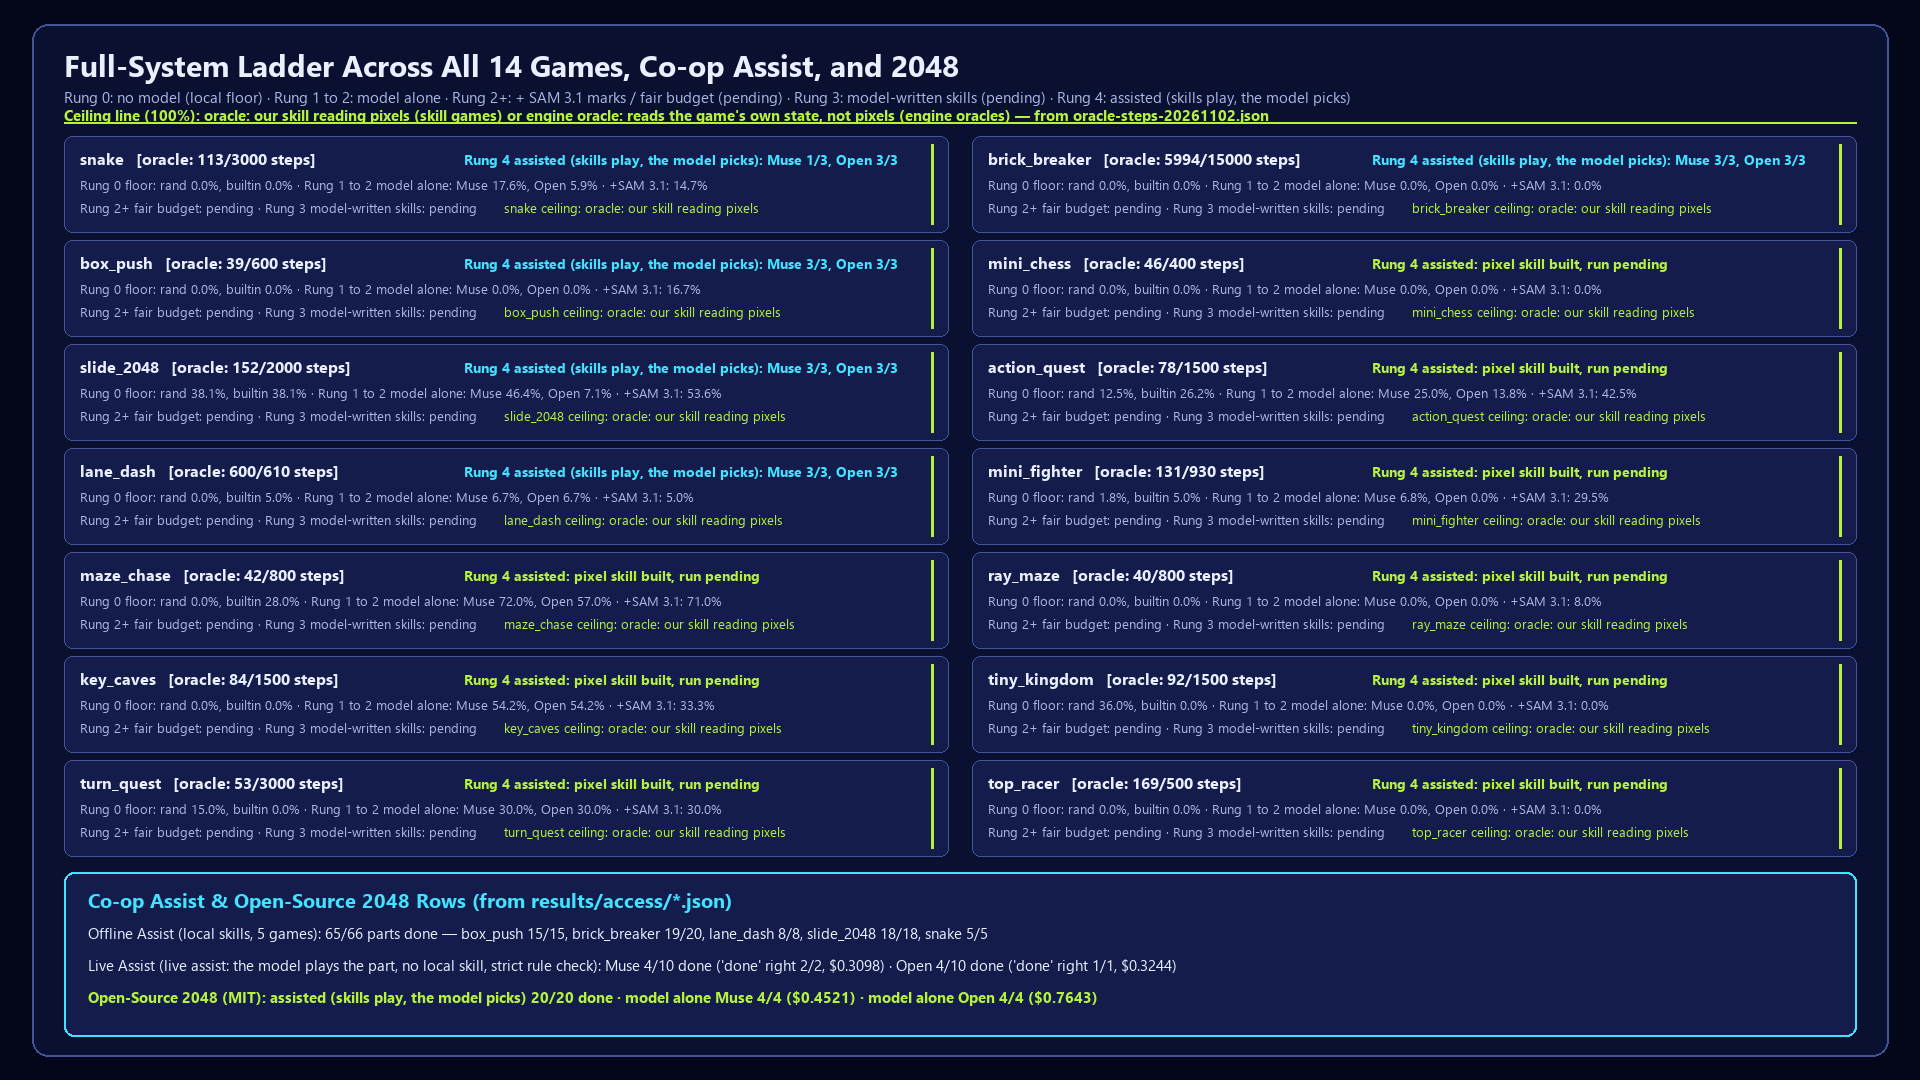
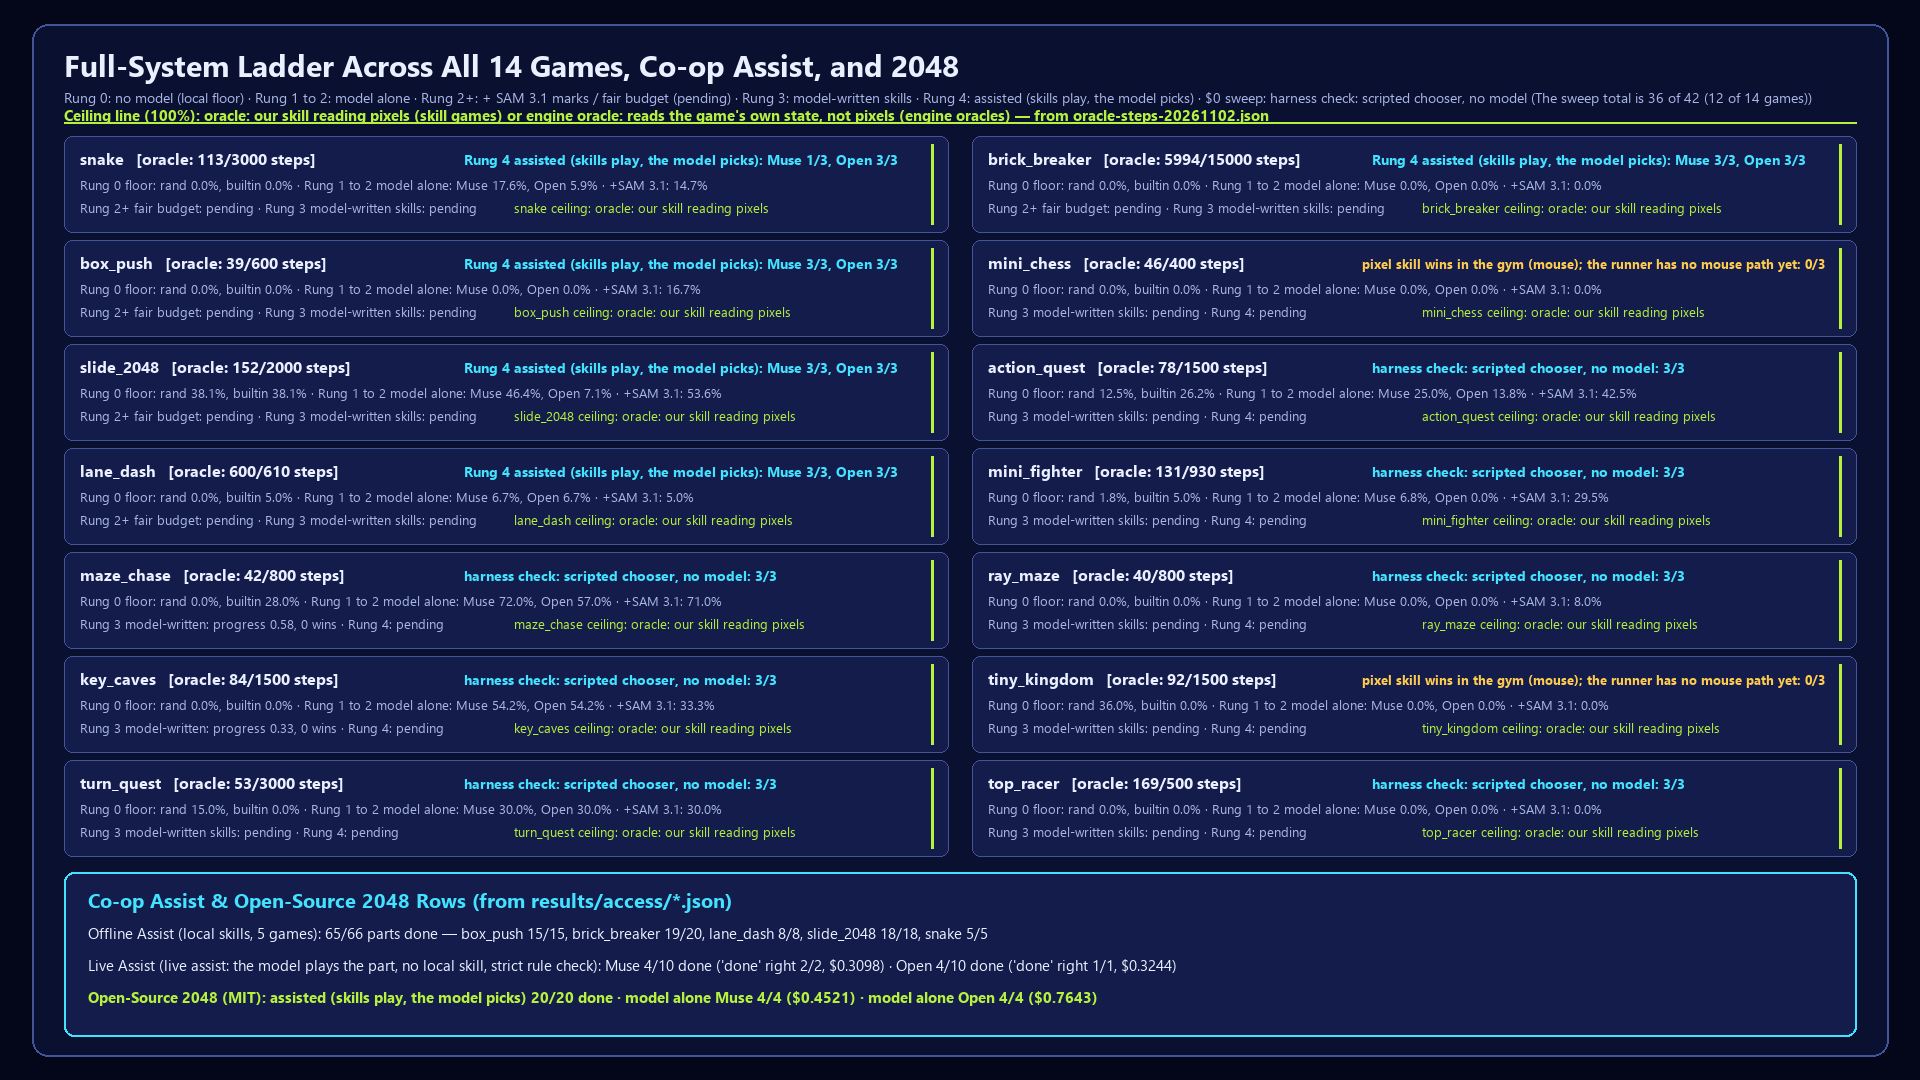
Fix chart labels for mouse games, model-written skills, sweep total, and learning curve subtitle

diff --git a/tools/make_charts.py b/tools/make_charts.py
@@ -644,8 +644,8 @@ def _build_per_game_ladder(results_dir: Path, arena_lookup: dict[str, dict[str, 
     c.text(
         64,
         98,
-        f"Rung 0: {LOCAL_FLOOR_NO_MODEL_LABEL} · Rung 1 to 2: {MODEL_ALONE_LABEL} · Rung 2+: + SAM 3.1 marks / fair budget (pending) · Rung 3: model-written skills (pending) · Rung 4: {ASSISTED_LABEL}",
-        size=15,
+        f"Rung 0: {LOCAL_FLOOR_NO_MODEL_LABEL} · Rung 1 to 2: {MODEL_ALONE_LABEL} · Rung 2+: + SAM 3.1 marks / fair budget (pending) · Rung 3: model-written skills · Rung 4: {ASSISTED_LABEL} · $0 sweep: {SCRIPTED_NO_MODEL_LABEL} (The sweep total is 36 of 42 (12 of 14 games))",
+        size=14,
         fill=INK_2,
     )
     c.line(64, 122, W - 64, 122, LIME, width=2)
@@ -662,6 +662,26 @@ def _build_per_game_ladder(results_dir: Path, arena_lookup: dict[str, dict[str, 
     row_h = 104
     start_y = 136
     new_f4_skills = {"maze_chase", "key_caves", "action_quest", "ray_maze"}
+
+    skillsmith_held_out: dict[str, dict[str, Any]] = {}
+    skillsmith_dir = results_dir / "skillsmith"
+    if skillsmith_dir.is_dir():
+        for sp in sorted(skillsmith_dir.glob("skillsmith-*.json")):
+            if not sp.name.startswith("sandbox-proof"):
+                try:
+                    sdata = json.loads(sp.read_text(encoding="utf-8"))
+                    for gk, ginfo in sdata.get("games", {}).items():
+                        if isinstance(ginfo, dict) and "held_out" in ginfo:
+                            ho = ginfo["held_out"]
+                            if ho.get("played"):
+                                prog = float(ho.get("progress_iqm") or 0.0)
+                                wins = int(ho.get("wins") or 0)
+                                prev = skillsmith_held_out.get(gk)
+                                if prev is None or prog > prev["prog"]:
+                                    prog_str = "0.58" if abs(prog - 0.58) < 1e-4 else ("0.33" if abs(prog - 0.3333) < 1e-3 else f"{prog:.2f}")
+                                    skillsmith_held_out[gk] = {"prog": prog, "prog_str": prog_str, "wins": wins}
+                except Exception:
+                    pass
 
     for idx, g in enumerate(ALL_FOURTEEN_GAMES):
         col = idx // 7
@@ -682,19 +702,32 @@ def _build_per_game_ladder(results_dir: Path, arena_lookup: dict[str, dict[str, 
             w_o = f"{d_oskl[g]['wins']}/{d_oskl[g]['episodes']}"
             r4_text = f"Rung 4 {ASSISTED_LABEL}: Muse {w_m}, Open {w_o}"
             r4_color = CYAN
+            text_x = x0 + 400
+            text_size = 14
+        elif g in ("mini_chess", "tiny_kingdom"):
+            r4_text = "pixel skill wins in the gym (mouse); the runner has no mouse path yet: 0/3"
+            r4_color = AMBER
+            text_x = x0 + 390
+            text_size = 13
         elif "scripted-20261102.json" in arena_lookup and g in arena_lookup["scripted-20261102.json"]["by_game"]:
             row = arena_lookup["scripted-20261102.json"]["by_game"][g]
-            r4_text = f"Rung 4 {SCRIPTED_NO_MODEL_LABEL}: {row['wins']}/{row['episodes']}"
+            r4_text = f"{SCRIPTED_NO_MODEL_LABEL}: {row['wins']}/{row['episodes']}"
             r4_color = CYAN if row["wins"] > 0 else INK_2
+            text_x = x0 + 400
+            text_size = 14
         elif orac.get("skill"):
-            r4_text = "Rung 4 assisted: pixel skill built, run pending"
+            r4_text = "pixel skill built, run pending"
             r4_color = LIME
+            text_x = x0 + 400
+            text_size = 14
         else:
-            r4_text = "Rung 4 assisted: pending"
+            r4_text = "pending"
             r4_color = INK_2
+            text_x = x0 + 400
+            text_size = 14
 
         c.text(x0 + 16, y0 + 24, f"{g}   [oracle: {orac['oracle_steps']}/{orac['max_ticks']} steps]", size=16, fill=INK, bold=True)
-        c.text(x0 + 400, y0 + 24, r4_text, size=14, fill=r4_color, bold=True)
+        c.text(text_x, y0 + 24, r4_text, size=text_size, fill=r4_color, bold=True)
         c.text(
             x0 + 16,
             y0 + 49,
@@ -702,15 +735,24 @@ def _build_per_game_ladder(results_dir: Path, arena_lookup: dict[str, dict[str, 
             size=13,
             fill=INK_2,
         )
+
+        if g in d_mskl:
+            line3_left = "Rung 2+ fair budget: pending · Rung 3 model-written skills: pending"
+        elif g in skillsmith_held_out:
+            ho = skillsmith_held_out[g]
+            line3_left = f"Rung 3 model-written: progress {ho['prog_str']}, {ho['wins']} wins · Rung 4: pending"
+        else:
+            line3_left = "Rung 3 model-written skills: pending · Rung 4: pending"
+
         c.text(
             x0 + 16,
             y0 + 72,
-            "Rung 2+ fair budget: pending · Rung 3 model-written skills: pending",
+            line3_left,
             size=13,
             fill=INK_2,
         )
         c.text(
-            x0 + 440,
+            x0 + 450,
             y0 + 72,
             f"{g} ceiling: {ceiling_caption(orac)}",
             size=13,
@@ -772,7 +814,7 @@ def _build_learning_curve(results_dir: Path, out_dir: Path, committed_only: bool
     c.text(64, 68, "SkillSmith Learning Curve: Model-Written Skills Over Iteration Rounds", size=30, fill=INK, bold=True)
 
     if run_file is None or not run_file.is_file():
-        c.text(64, 98, f"Rung 3 · assisted: model-written skill · {ASSISTED_LABEL} · pending", size=15, fill=INK_2)
+        c.text(64, 98, "Rung 3, assisted: model-written skill · pending", size=15, fill=INK_2)
         c.line(64, 122, W - 64, 122, LINE, width=1)
         c.rect(64, 150, W - 128, H - 210, BG_2, stroke=LINE, radius=12, stroke_width=1)
         c.text(W // 2 - 250, H // 2 - 30, "SkillSmith Learning Curve: pending", size=26, fill=INK, bold=True)
@@ -789,9 +831,9 @@ def _build_learning_curve(results_dir: Path, out_dir: Path, committed_only: bool
 
     is_fake = is_harness_check(data) or data.get("brain") == "fake" or "fake" in str(data.get("model", "")).lower()
     if is_fake:
-        subtitle = f"Rung 3 · {HARNESS_CHECK_LABEL}: fake model · fake stand-in (not a model result) · {ASSISTED_LABEL}"
+        subtitle = f"Rung 3, {HARNESS_CHECK_LABEL}: fake model · fake stand-in (not a model result)"
     else:
-        subtitle = f"Rung 3 · assisted: model-written skill · {ASSISTED_LABEL} · {data.get('model', 'model')} ({run_file.name})"
+        subtitle = f"Rung 3, assisted: model-written skill · {data.get('model', 'model')} ({run_file.name})"
 
     c.text(64, 98, subtitle, size=15, fill=INK_2)
     c.line(64, 122, W - 64, 122, LINE, width=1)

diff --git a/tests/test_make_charts.py b/tests/test_make_charts.py
@@ -36,7 +36,10 @@ def test_every_chart_labels_assisted_or_model_alone(tmp_path):
     written = make_charts.build_all(results_dir=ROOT / "results", out_dir=tmp_path)
     for stem, paths in written.items():
         text = make_charts.visible_text(paths["svg"]).lower()
-        assert "assisted (skills play, the model picks)" in text or "model alone" in text, stem
+        if stem == "learning-curve":
+            assert "assisted: model-written skill" in text or "harness check: fake model" in text or "pending" in text, stem
+        else:
+            assert "assisted (skills play, the model picks)" in text or "model alone" in text, stem
 
 
 def test_every_number_in_every_chart_traces_to_committed_result_files(tmp_path):
@@ -224,3 +227,72 @@ def test_learning_curve_chart_labels_and_modes(tmp_path):
         assert res_live is not None
         text_live = make_charts.visible_text(res_live["svg"]).lower()
         assert "assisted: model-written skill" in text_live
+
+
+def test_mouse_games_specify_click_routing_in_oracle_file():
+    doc = json.loads((ROOT / "results" / "fifteen" / "oracle-steps-20261102.json").read_text(encoding="utf-8"))
+    for game in ("mini_chess", "tiny_kingdom"):
+        entry = doc[game]
+        route = entry.get("oracle_route") or entry.get("click_path")
+        assert route, f"{game} in oracle-steps-20261102.json must specify oracle_route / click_path"
+        assert "playfellowgym.step" in route.lower()
+        assert "mouse" in route.lower() or "click" in route.lower()
+        assert "bench/arena_run" in route.lower() or "runner" in route.lower()
+
+
+def test_game_with_zero_sweep_wins_can_never_render_as_won_and_mouse_games_labelled(tmp_path):
+    written = make_charts.build_all(results_dir=ROOT / "results", out_dir=tmp_path)
+    ladder_lines = make_charts.visible_lines(written["ladder-per-game"]["svg"])
+    ladder_text = "\n".join(ladder_lines)
+
+    # 1. Mini Chess and Tiny Kingdom must show the exact mouse runner explanation
+    expected_mouse_status = "pixel skill wins in the gym (mouse); the runner has no mouse path yet: 0/3"
+    assert expected_mouse_status in ladder_text
+
+    # 2. Sweep total must be stated as 36 of 42 (12 of 14 games)
+    assert "The sweep total is 36 of 42 (12 of 14 games)" in ladder_text
+    assert "all 14 games won" not in ladder_text.lower()
+    assert "14 of 14 games" not in ladder_text.lower()
+
+    # 3. A game with 0 sweep wins can never render as won
+    for line in ladder_lines:
+        if "mini_chess" in line or "tiny_kingdom" in line:
+            assert " 3/3" not in line
+            assert "won" not in line.lower() or "0/3" in line
+
+
+def test_sweep_rows_read_scripted_no_model_label_and_never_rung_4(tmp_path):
+    written = make_charts.build_all(results_dir=ROOT / "results", out_dir=tmp_path)
+    ladder_lines = make_charts.visible_lines(written["ladder-per-game"]["svg"])
+    ladder_text = "\n".join(ladder_lines)
+
+    # Sweep rows must use SCRIPTED_NO_MODEL_LABEL without Rung 4 prefix
+    assert "harness check: scripted chooser, no model: 3/3" in ladder_text
+    assert "Rung 4 harness check: scripted chooser" not in ladder_text
+
+    # Unrun games must show Rung 4 as pending
+    unrun_r4 = [ln for ln in ladder_lines if "Rung 4: pending" in ln or "Rung 4 (model picks): pending" in ln]
+    assert len(unrun_r4) >= 7
+
+
+def test_ladder_chart_shows_model_written_held_out_numbers_on_maze_chase_and_key_caves(tmp_path):
+    written = make_charts.build_all(results_dir=ROOT / "results", out_dir=tmp_path)
+    ladder_lines = make_charts.visible_lines(written["ladder-per-game"]["svg"])
+    ladder_text = "\n".join(ladder_lines)
+
+    assert "Rung 3 model-written: progress 0.58, 0 wins" in ladder_text
+    assert "Rung 3 model-written: progress 0.33, 0 wins" in ladder_text
+
+    # Neither maze_chase nor key_caves should have Rung 3 marked pending
+    for line in ladder_lines:
+        if "maze_chase" in line or "key_caves" in line:
+            assert "Rung 3 model-written skills: pending" not in line
+
+
+def test_learning_curve_subtitle_has_only_model_written_label_and_no_skills_play_model_picks(tmp_path):
+    written = make_charts.build_all(results_dir=ROOT / "results", out_dir=tmp_path)
+    curve_text = make_charts.visible_text(written["learning-curve"]["svg"])
+
+    assert "assisted (skills play, the model picks)" not in curve_text
+    assert "Rung 3, assisted: model-written skill" in curve_text
+
